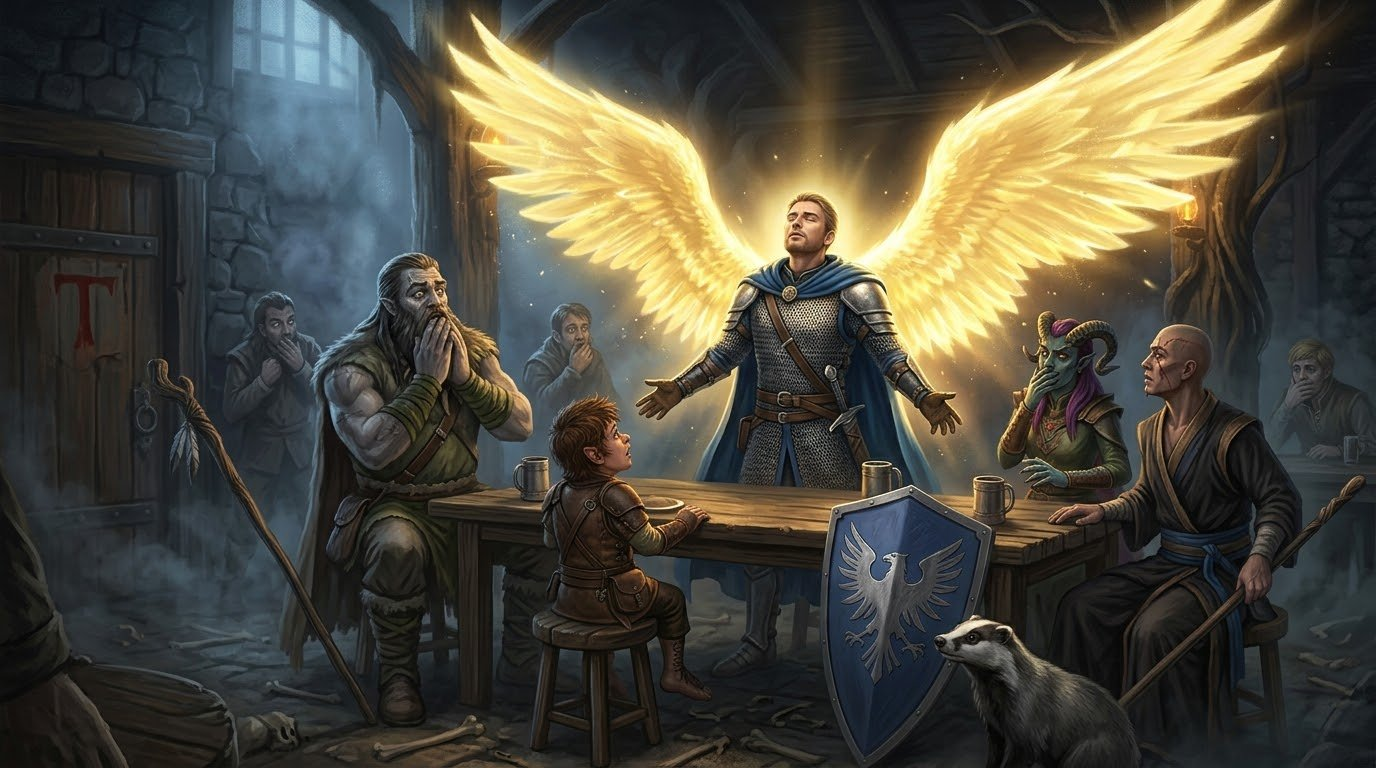
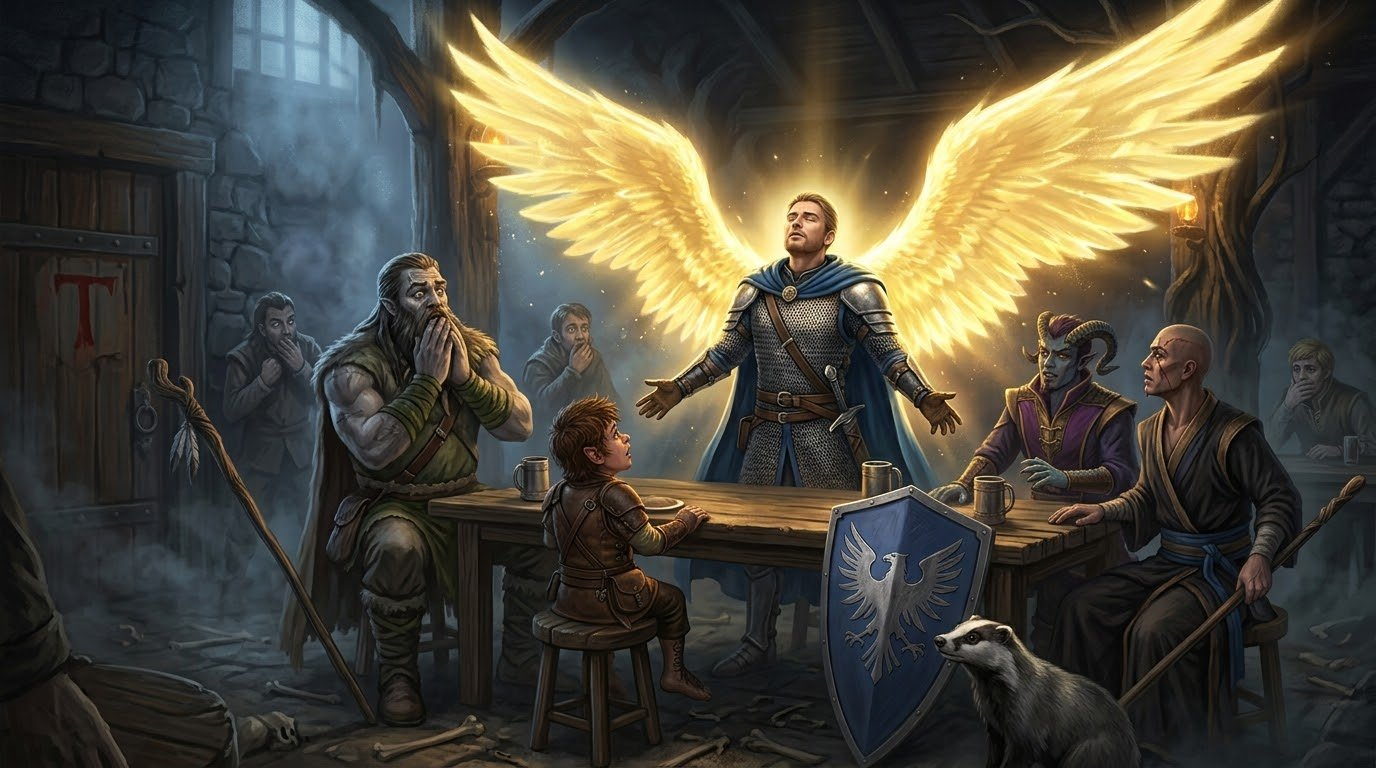
Puntata IV: nuove versioni delle immagini, tolta la tavola del villaggio
Claude-Session: https://claude.ai/code/session_01EdqRYJGV7X4R1nQ3TAg6qN

Changed region(s): [[0.6562, 0.4062, 0.8438, 0.6875], [0.5625, 0.375, 0.5938, 0.4375]]

diff --git a/puntata-04.html b/puntata-04.html
@@ -22,9 +22,6 @@
     <h4>Servi del diavolo</h4>
     <p>Due bambini corrono verso il gruppo, ma una donna li richiama urlando e chiama gli avventurieri servi del diavolo. I contadini abbandonano i campi e fuggono verso il villaggio, e il gruppo li segue. Le case sono chiuse, le finestre sbarrate.</p>
 
-    <figure class="plate"><canvas data-scene="village" aria-label="Illustrazione: un villaggio grigio con case dalle finestre sbarrate"></canvas>
-      <figcaption>Il villaggio di Barovia</figcaption></figure>
-
     <h4>Il Sangue della Vita</h4>
     <p>Bastian parla con un vecchio che indica loro una locanda. Arrivati in una piazza con un pozzo, il vecchio se ne va e li lascia soli vicino all'emporio di Bildrath. L'insegna della taverna diceva <i>Sangue della Vigna</i>, ma qualcuno ha disegnato una T con un tratto rosso sangue: ora si legge <i>Sangue della Vita</i>.</p>
     <p>Floki entra per primo. Dentro ci sono il barista, un umano biondo in compagnia di tre persone e una famiglia seduta a un tavolo. Quando il gruppo si siede, la famiglia se ne va. Pagano venticinque monete per alloggiare. Birra non ce n'è, solo il vino dei Maghi della Vigna.</p>
